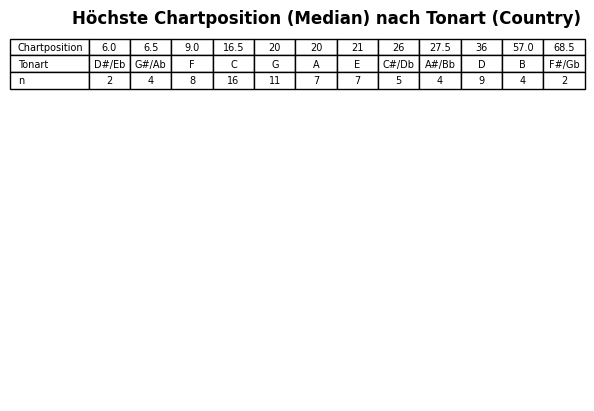
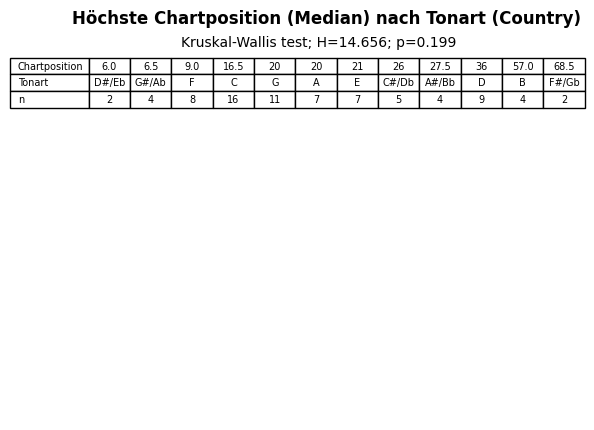
backup

Changed region(s): [[0.0, 0.0876, 1.0, 0.2628], [0.1212, 0.0292, 0.9697, 0.0584]]

diff --git a/src/helper/statistics_helper.py b/src/helper/statistics_helper.py
@@ -9,6 +9,8 @@ from typing import List
 from matplotlib import pyplot as plt
 from src.models.song import Song
 from src.models.spotify_song_data import SpotifySongData
+from scipy.stats import chi2
+
 
 figure_number = 0
 most_common_genres = ['rock', 'pop', 'soul', 'country', 'blues']
@@ -80,12 +82,20 @@ def get_rank_correlation_coefficient(rank_x: List[int], rank_y: List[int]) -> fl
     return dividend/divisor
 
 
+# non parametric alternatives
+
+class TTestResult:
+    def __init__(self, significance: bool, t_value):
+        self.significance = significance
+        self.t_value = t_value
+
+
 # returns true if correlation is statistically significant
 def t_test(rho, n):
     t_value = rho * sqrt((n - 2) / (1 - rho * rho))
-    p_value = scipy.stats.t.sf(abs(t_value), n-2)
-    print(p_value)
-    return p_value < 0.05
+    P = scipy.stats.t.sf(abs(t_value), n-2)
+    print(P)
+    return TTestResult(P < 0.05, t_value)
 
 
 def get_rank_correlation_coefficient_from_value_lists(value_x: List[int], value_y: List[int]) -> float:
@@ -121,7 +131,6 @@ def create_genre_scatter_plots(songs: List[Song]):
 
 def get_median_chart_positions(songs: List[Song], audio_feature: str):
     dict = {}
-    #dict = defaultdict({'median': [],  'len': -1})
 
     grouped_songs = defaultdict(list)
     medians = {}
@@ -139,6 +148,7 @@ def get_median_chart_positions(songs: List[Song], audio_feature: str):
         dict[key] = {}
         dict[key]['median'] = median
         dict[key]['len'] = len(value)
+        dict[key]['chart_pos_values'] = value
     return dict
 
 
@@ -197,6 +207,12 @@ def create_key_table(songs: List[Song], filename: str, genre: str = None):
     plt.figure(figsize=(8, 3))
 
     result = get_median_chart_positions(songs, 'key')
+    # kruskal test
+    values = result.values()
+    grouped_values = [value['chart_pos_values'] for value in values]
+    kruskal_result = scs.kruskal(*grouped_values)
+    kruskal_res_str = f'Kruskal-Wallis test; H={kruskal_result.statistic:.3f}; p={kruskal_result.pvalue:.3f}'
+
     sorted_result = {k: v for k, v in sorted(result.items(), key=lambda item: item[1]['median'])}
 
     keys = ['C', 'C#/Db', 'D', 'D#/Eb', 'E', 'F', 'F#/Gb', 'G', 'G#/Ab', 'A', 'A#/Bb', 'B']
@@ -207,7 +223,7 @@ def create_key_table(songs: List[Song], filename: str, genre: str = None):
 
     fig, ax = plt.subplots()
     ax.set_axis_off()
-    table = plt.table(
+    plt.table(
         cellText=data,
         rowLabels=['Chartposition', 'Tonart', 'n'],
         cellLoc='center',
@@ -215,7 +231,8 @@ def create_key_table(songs: List[Song], filename: str, genre: str = None):
 
     genre_str = '' if genre is None else f'({genre.capitalize()})'
     plt.title(f'Höchste Chartposition (Median) nach Tonart {genre_str}',
-                 fontweight="bold")
+                 fontweight="bold", y=1.05)
+    plt.suptitle(kruskal_res_str, fontsize=10, y=0.91)
 
     plt.savefig('../data/img/tables/' + filename, bbox_inches="tight")
     plt.show()
@@ -225,6 +242,10 @@ def create_mode_table(songs: List[Song], filename: str, genre: str = None):
     plt.figure(figsize=(6, 1))
 
     result = get_median_chart_positions(songs, 'mode')
+
+    test_result = scs.mannwhitneyu(['TODO'], ['TODO'], method="exact")
+
+
     val1 = ['Moll', 'Dur']
     val3 = [[res['median'] for res in result.values()],
             [val1[res] for res in result.keys()],
@@ -232,7 +253,7 @@ def create_mode_table(songs: List[Song], filename: str, genre: str = None):
 
     fig, ax = plt.subplots()
     ax.set_axis_off()
-    table = plt.table(
+    plt.table(
         cellText=val3,
         rowLabels=['Chartposition', 'Tongeschlecht', 'n'],
         colWidths=[0.3, 0.3, 0.3],

diff --git a/src/data-analysis-main.py b/src/data-analysis-main.py
@@ -1,5 +1,6 @@
 
 import pickle
+import statistics
 from collections import defaultdict
 from typing import List
 
@@ -14,16 +15,34 @@ from src.models.mgill_chord import note_to_interval
 from src.models.song import Song
 from src.shared import settings
 
-import matplotlib.pyplot as plt
-
 
 def test_correlation_significance(songs):
     t_test_parameters = create_genre_scatter_plots(songs)
-    significance = {}
-    for key, value in t_test_parameters.items():
-        significance[key] = t_test(value['r'], value['n'])
 
-    return significance
+    true_str = ''
+    false_str = ''
+
+    with open('../data/notes/t_tests.txt', 'w') as f:
+        for key, value in t_test_parameters.items():
+            result = t_test(value['r'], value['n'])
+            file_line = f"{key}: statistically significant: {str(result.significance)}, rho={value['r']}, t={str(result.t_value)}, df={value['n']-2}\n"
+
+            if result.significance:
+                true_str += file_line
+            else:
+                false_str += file_line
+
+        f.write(true_str)
+        f.write(false_str)
+
+
+def create_key_tables(songs):
+    create_key_table(songs, 'key_all.png')
+
+    genre_dict = get_genres_dictionary(songs)
+    for genre in most_common_genres:
+
+        create_key_table(genre_dict[genre], f'key_{genre}', genre)
 
 
 settings.init_logger('analysis.log')
@@ -37,13 +56,14 @@ bin_file = '../data/songs.pickle'
 
 
 songs: List[Song] = get_songs_from_binary_file(bin_file)
+songs_with_audio_features = [song for song in songs if song.spotify_song_data.audio_features_dictionary is not None]
 
-res = find_linear_contributions(songs)
-x = {k: v for k, v in sorted(res.items(), key=lambda item: item[1], reverse=True)}
-v = 42
-print(x)
+create_key_tables(songs_with_audio_features)
+
 #res = get_quartile_surprises(songs)
 
+# test_correlation_significance(songs)
+# res = find_linear_contributions(songs)
 
 
 

diff --git a/src/models/spotify_song_data.py b/src/models/spotify_song_data.py
@@ -4,7 +4,7 @@ import string
 
 class SpotifySongData:
 
-    audio_feature_keys = ['danceability', 'energy', 'key', 'loudness', 'mode', 'speechiness', 'acousticness', 'instrumentalness', 'liveness', 'valence', 'tempo']
+    audio_feature_keys = ['danceability', 'duration_ms', 'energy', 'key', 'loudness', 'mode', 'speechiness', 'acousticness', 'instrumentalness', 'liveness', 'valence', 'tempo']
 
     def __init__(self, audio_features_dictionary):
         self.audio_features_dictionary = audio_features_dictionary

diff --git a/src/helper/absolute_surprise.py b/src/helper/absolute_surprise.py
@@ -78,7 +78,7 @@ def get_quartile_surprises(songs: List[Song]):
     global prog_count_dict_by_song
     global total_progressions_by_song
 
-    init()
+    init(songs)
 
     split_songs = split_by_quartiles(songs)
 

diff --git a/src/dataset-creation-main.py b/src/dataset-creation-main.py
@@ -77,4 +77,6 @@ def remove_duplicates():
 settings.init_logger()
 spotify_api.init()
 
+
+
 remove_duplicates()
